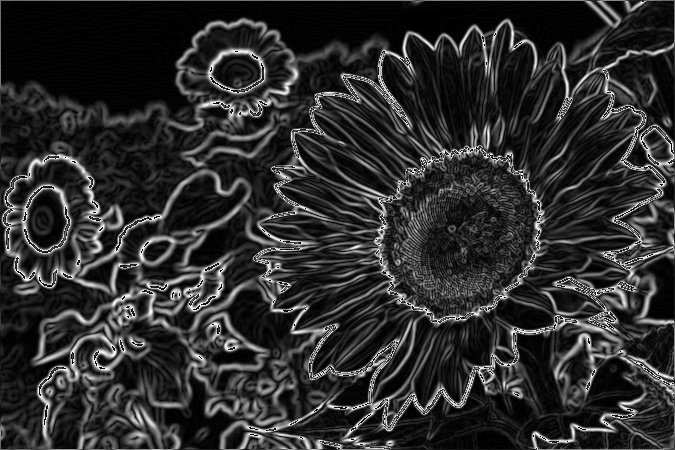
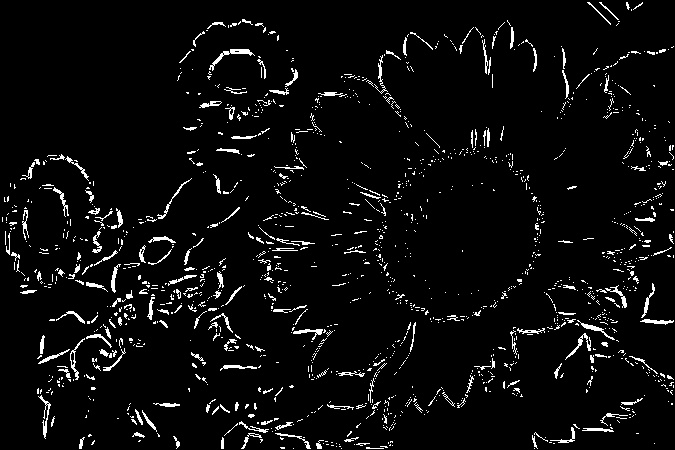
Add edge trace

diff --git a/canny.cpp b/canny.cpp
@@ -1,12 +1,44 @@
 #include"canny.hpp"
 
+Canny::Canny(u_char **img, int upper_threshold, int lower_threshold, int rows, int cols) {
+    _upper_threshold = upper_threshold;
+    _lower_threshold = lower_threshold;
+    _origin_img = img;
+    _rows = rows;
+    _cols = cols;
 
-u_char** canny(u_char **img, int rows, int cols) {
-    img =  gaussian_filter(img, rows, cols);
-    return gradient(img, rows, cols);
+    _edge_img = new u_char*[_rows];
+    for(int i = 0; i < _rows; i ++) {
+        _edge_img[i] = new u_char[_cols];
+        for(int j = 0; j < _cols; j ++) {
+            _edge_img[i][j] = 0;
+        }
+    }
+    gaussian_filter();
+    gradient();
+    trace_edge();
+}
+Canny::~Canny() {
+    delete_img(_origin_img);
+    delete_img(_filtered_img);
+    delete_img(_gradient_strength);
+    delete_img(_gradient_direction);
+    delete_img(_edge_img);
+}
+u_char** Canny::getEdge() {
+    return _edge_img;
 }
 
-u_char**  gaussian_filter(u_char **in, int rows, int cols) {
+u_char** Canny::getGaussian() {
+    return _filtered_img;
+}
+u_char** Canny::getGradientStrength() {
+    return _gradient_strength;
+}
+u_char** Canny::getGradientDirection() {
+    return _gradient_direction;
+}
+void Canny::gaussian_filter() {
     int gaussian_mask[5][5] = {
                                 {1, 4, 7, 4, 1},
                                 {4, 16, 26, 16, 4},
@@ -14,31 +46,29 @@ u_char**  gaussian_filter(u_char **in, int rows, int cols) {
                                 {4, 16, 26, 16, 4},
                                 {1, 4, 7, 4, 1}
                                };
-    u_char **out = new u_char*[rows];
-    for(int i = 0; i < rows; i ++) {
-        out[i] = new u_char[cols];
-        for(int j = 0; j < cols; j ++) {
-            out[i][j] = in[i][j];
+    _filtered_img = new u_char*[_rows];
+    for(int i = 0; i < _rows; i ++) {
+        _filtered_img[i] = new u_char[_cols];
+        for(int j = 0; j < _cols; j ++) {
+            _filtered_img[i][j] = _origin_img[i][j];
         }
     }
-    for(int i = 2; i < rows - 2; i ++) {
-        for(int j = 2; j < cols - 2; j ++) {
+    for(int i = 2; i < _rows - 2; i ++) {
+        for(int j = 2; j < _cols - 2; j ++) {
             int new_pixel = 0;
             for(int row_offset = -2; row_offset <= 2; row_offset ++) {
                 for(int col_offset = -2; col_offset <= 2; col_offset ++) {
                     int cur_row = i + row_offset;
                     int cur_col = j + col_offset;
-                    new_pixel += (int)in[cur_row][cur_col] * gaussian_mask[2 + row_offset][2 + col_offset];
+                    new_pixel += (int)_origin_img[cur_row][cur_col] * gaussian_mask[2 + row_offset][2 + col_offset];
                 }
             }
-            out[i][j] = (u_char)(new_pixel / 273);
+            _filtered_img[i][j] = (u_char)(new_pixel / 273);
         }
     }
-    return out;
 }
 
-u_char **gradient(u_char **in, int rows, int cols) {
-    
+void Canny::gradient() {
     int gx_mask[3][3] = {
                          {-1, 0, 1}, 
                          {-2, 0, 2}, 
@@ -49,26 +79,108 @@ u_char **gradient(u_char **in, int rows, int cols) {
                          {0, 0, 0}, 
                          {1, 2, 1}
                         };
-    u_char **gradient = new u_char*[rows];
-    for(int i = 0; i < rows; i ++) {
-        gradient[i] = new u_char[cols];
-        for(int j = 0; j < cols; j ++) {
-            gradient[i][j] = in[i][j];
+    _gradient_strength = new u_char*[_rows];
+    for(int i = 0; i < _rows; i ++) {
+        _gradient_strength[i] = new u_char[_cols];
+        for(int j = 0; j < _cols; j ++) {
+            _gradient_strength[i][j] = _filtered_img[i][j];
         }
     }
-    for(int i = 1; i < rows - 1; i ++) {
-        for(int j = 1; j < cols - 1; j ++) {
+    _gradient_direction = new u_char*[_rows];
+    for(int i = 0; i < _rows; i ++) {
+        _gradient_direction[i] = new u_char[_cols];
+        for(int j = 0; j < _cols; j ++) {
+            _gradient_direction[i][j] = _filtered_img[i][j];
+        }
+    }
+
+    for(int i = 1; i < _rows - 1; i ++) {
+        for(int j = 1; j < _cols - 1; j ++) {
             int gx = 0;
             int gy = 0;
             for(int row_offset = -1; row_offset <= 1; row_offset ++) {
                 for(int col_offset = -1; col_offset <= 1; col_offset ++) {
-                    gx += in[i + row_offset][j + col_offset] * gx_mask[row_offset + 1][col_offset + 1];
-                    gy += in[i + row_offset][j + col_offset] * gy_mask[row_offset + 1][col_offset + 1];
+                    gx += _filtered_img[i + row_offset][j + col_offset] * gx_mask[row_offset + 1][col_offset + 1];
+                    gy += _filtered_img[i + row_offset][j + col_offset] * gy_mask[row_offset + 1][col_offset + 1];
                 }
             }
-            gradient[i][j] = sqrt(gx * gx + gy * gy);
+            _gradient_strength[i][j] = sqrt(gx * gx + gy * gy);
+            double angle = (atan2(gx, gy) / M_PI) * 180.0;
+            if ( ( (angle < 22.5) && (angle > -22.5) ) || (angle > 157.5) || (angle < -157.5) )
+				_gradient_direction[i][j] = 0;
+			else if ( ( (angle > 22.5) && (angle < 67.5) ) || ( (angle < -112.5) && (angle > -157.5) ) )
+				_gradient_direction[i][j] = 45;
+			else if ( ( (angle > 67.5) && (angle < 112.5) ) || ( (angle < -67.5) && (angle > -112.5) ) )
+				_gradient_direction[i][j] = 90;
+			else if ( ( (angle > 112.5) && (angle < 157.5) ) || ( (angle < -22.5) && (angle > -67.5) ) )
+				_gradient_direction[i][j] = 135;
         }
     }
+}
 
-    return gradient;
+void Canny::trace_edge() {
+    
+    for(int i = 1; i < _rows - 1; i ++) {
+        for(int j = 1; j < _cols - 1; j ++) {
+            bool edgeEnd = false;
+            if(_gradient_strength[i][j] > _upper_threshold) {
+                switch(_gradient_direction[i][j]) {
+                    case 0:
+                        find_edge(0, 1, i, j, 0);
+                        break;
+                    case 45:
+                        find_edge(1, 1, i, j, 45);
+                        break;
+                    case 90:
+                        find_edge(1, 0, i, j, 90);
+                        break;
+                    case 135:
+                        find_edge(1, -1, i, j, 135);
+                        break;
+                    default :
+                        _edge_img[i][j] = 0;     
+                }
+            } else {
+                _edge_img[i][j] = 0;     
+            }
+        }
+    }
+}
+void Canny::find_edge(int rowShift, int colShift, int i, int j, int dir) {
+	bool edgeEnd = false;
+    int newRow = i + rowShift;
+	int newCol = j + colShift;
+    if(newRow < 0 || newRow >= _rows) {
+        edgeEnd = true;
+    }
+    if(newCol < 0 || newCol >= _cols) {
+        edgeEnd = true;
+    }
+    while((_gradient_direction[newRow][newCol] == dir) && !edgeEnd &&
+        (_gradient_strength[newRow][newCol] > _lower_threshold)) {
+            _edge_img[newRow][newCol] = 255;
+            newRow = newRow + rowShift;
+            newCol = newCol + colShift;
+            if(newRow < 0 || newRow >= _rows) {
+                break;
+            }
+            if(newCol < 0 || newRow >= _cols) {
+                break;
+            }
+    }
+    for(int m = 0; m < _rows; m ++) {
+        for(int n = 0; n < _cols; n ++) {
+            _edge_img[m][n] = _edge_img[m][n] == 255 ? 255 : 0;
+        }
+    }
+}
+
+void Canny::delete_img(u_char **ptr) {
+    if(!ptr) {
+        return;
+    }
+    for(int i = 0; i < _rows; i ++) {
+        delete ptr[i];
+    }
+    delete ptr;
 }

diff --git a/main.cpp b/main.cpp
@@ -1,4 +1,5 @@
 #include"canny.hpp"
+#include"io.hpp"
 #include <iostream>
 #include <opencv2/core/core.hpp>
 #include<opencv2/opencv.hpp>
@@ -6,39 +7,21 @@
 using namespace std;
 
 int main() {
-    
-    string input_path = "/home/gao/canny-cpu/input/sunflower.jpg";
-    string output_path = "/home/gao/canny-cpu/output/edge_sunflower.jpg";
-    // mat to uchar[][]
+    string pojectPath = "/home/gao/canny-cpu";
+    string input_path = pojectPath + "/input/sunflower.jpg";
+    string output_path = pojectPath + "/output/edge_sunflower.jpg";
+
     cv::Mat grayscale_image = cv::imread(input_path, cv::IMREAD_GRAYSCALE);
-    int img_rows = grayscale_image.rows;
-    int img_cols = grayscale_image.cols;
-    u_char **img = new u_char*[img_rows];
-    for(int i = 0; i < img_rows; i ++) {
-        img[i] = new u_char[img_cols];
-    }
-    for(int i = 0; i < img_rows; i ++) {
-        for(int j = 0; j < img_cols; j ++) {
-            img[i][j] = grayscale_image.at<u_char>(i, j);
-        }
-    }
+    int rows = grayscale_image.rows;
+    int cols = grayscale_image.cols;
+    cout << rows << " rows, " << cols << " cols"<<endl;
+    u_char **input = mat2Array(grayscale_image, rows, cols);
+    Canny c(input, 128, 100, rows, cols);
+    u_char **edge = c.getEdge();
 
-    // find edge
-    u_char **edge = canny(img, img_rows, img_cols);
+    cv::Mat edge_img = array2Mat(edge, rows, cols);
+    cv::imwrite(output_path, edge_img);
 
-    // uchar[][] to mat
-    cv::Mat edge_image(img_rows, img_cols, CV_8UC1);
-    for(int i = 0; i < img_rows; i ++) {
-        for(int j = 0; j < img_cols; j ++) {
-            edge_image.at<u_char>(i, j) = edge[i][j];
-        }
-    }
-    cv::imwrite(output_path, edge_image);
-    for(int i = 0; i < img_rows; i ++) {
-        delete img[i];
-    }
-    delete img;
-    
     return 0;
 
 

diff --git a/canny.hpp b/canny.hpp
@@ -1,10 +1,33 @@
 #include<iostream>
 #include<math.h>
+#include <memory>
 using namespace std;
 
-u_char** canny(u_char **img, int rows, int cols);
 
 
-u_char**  gaussian_filter(u_char **in, int rows, int cols);
+class Canny {
+    public:
 
-u_char **gradient(u_char **in, int rows, int cols);
+        Canny(u_char **img, int upper_threshold, int lower_threshold, int rows, int cols);
+        ~Canny();
+        u_char** getEdge();
+        u_char** getGaussian();
+        u_char** getGradientStrength();
+        u_char** getGradientDirection();
+    private:
+        unsigned _rows;
+        unsigned _cols;
+        int _upper_threshold;
+        int _lower_threshold;
+        u_char **_origin_img;
+        u_char **_filtered_img;
+        u_char **_gradient_strength;
+        u_char **_gradient_direction;
+        u_char **_edge_img;
+        void gaussian_filter();
+        void gradient();
+        void trace_edge();
+        void find_edge(int rowShift, int colShift, int row, int col, int dir);
+        void delete_img(u_char **ptr);
+
+};
